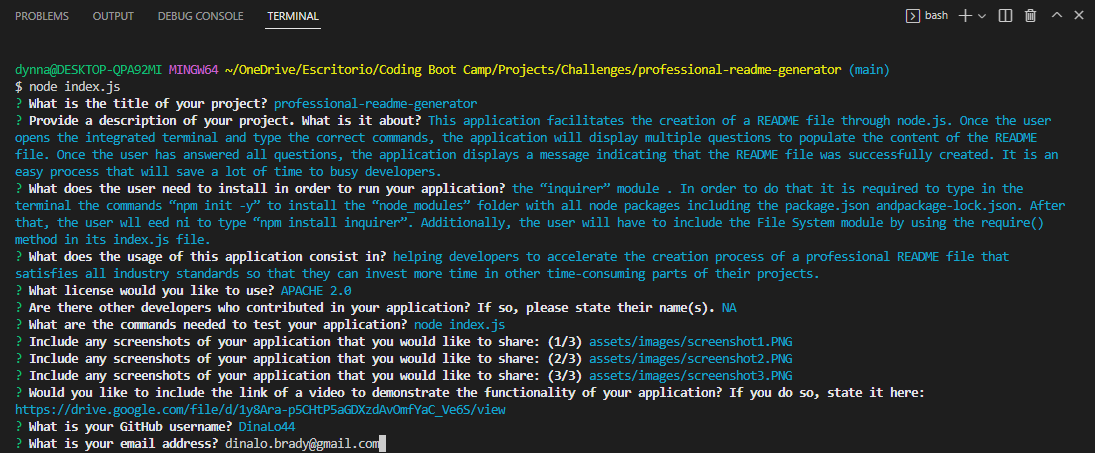
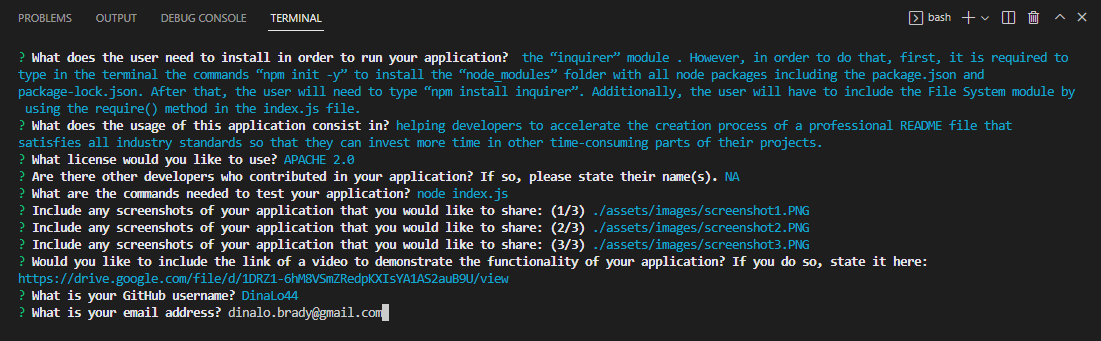
replaced screenshots, video link and edited a few answers

Changed region(s): [[0.0, 0.1466, 0.9936, 1.0], [0.0, 0.0293, 0.3105, 0.088], [0.8073, 0.0, 0.9936, 0.088]]

diff --git a/utils/generateMarkdown.js b/utils/generateMarkdown.js
@@ -41,6 +41,8 @@ function generateMarkdown(data) {
   - [License](#license)
   - [Contributing](#contributing)
   - [Tests](#tests)
+  - [Screenshots](#screenshots)
+  - [Video](#video)
   - [Questions](#questions)
   # Installation
   In order to run this application the user needs to install ${data.Installation}
@@ -54,14 +56,13 @@ function generateMarkdown(data) {
   # Tests
   The following commands are needed in order to test this application: ${data.Tests}
   # Screenshots
-  - ${data.Screenshot1}
-  - ${data.Screenshot2}
-  - ${data.Screenshot3}
+  ![screenshot1](${data.Screenshot1})
+  ![screenshot2](${data.Screenshot2})
+  ![screenshot3](${data.Screenshot3})
   # Video 
   Here is a demo video of the application: ${data.Video}
   # Questions
-  If you desire to address any inquiries, suggestions or repository related matters, feel free to contact me through my GitHub account username: ${data.Username} or at
-  ${data.Email}
+  If you desire to address any inquiries, suggestions or repository related matters, feel free to contact me through my GitHub username: ${data.Username} or through my email address: ${data.Email}
   `;
 }
 

diff --git a/README.md b/README.md
@@ -12,9 +12,11 @@
   - [License](#license)
   - [Contributing](#contributing)
   - [Tests](#tests)
+  - [Screenshots](#screenshots)
+  - [Video](#video)
   - [Questions](#questions)
   # Installation
-  In order to run this application the user needs to install the “inquirer” module . In order to do that it is required to type in the terminal the commands “npm init -y” to install the “node_modules” folder with all node packages including the package.json and package-lock.json. After that, the user will need to type “npm install inquirer”. Additionally, the user will have to include the File System module by using the require() method in its index.js file.
+  In order to run this application the user needs to install  the “inquirer” module . However, in order to do that, first, it is required to type in the terminal the commands “npm init -y” to install the “node_modules” folder with all node packages including the package.json and package-lock.json. After that, the user will need to type “npm install inquirer”. Additionally, the user will have to include the File System module by using the require() method in the index.js file.
   # Usage
   The usage of this application consists in helping developers to accelerate the creation process of a professional README file that satisfies all industry standards so that they can invest more time in other time-consuming parts of their projects. 
   # License 
@@ -25,12 +27,11 @@
   # Tests
   The following commands are needed in order to test this application: node index.js
   # Screenshots
-  - .\assets\images\screenshot1.PNG
-  - .\assets\images\screenshot2.PNG
-  - .\assets\images\screenshot3.PNG
+  ![screenshot1](./assets/images/screenshot1.PNG)
+  ![screenshot2](./assets/images/screenshot2.PNG)
+  ![screenshot3](./assets/images/screenshot3.PNG)
   # Video 
-  Here is a demo video of the application: https://drive.google.com/file/d/1y8Ara-p5CHtP5aGDXzdAvOmfYaC_Ve6S/view
+  Here is a demo video of the application: https://drive.google.com/file/d/1DRZ1-6hM8VSmZRedpKXIsYA1AS2auB9U/view
   # Questions
-  If you desire to address any inquiries, suggestions or repository related matters, feel free to contact me through my GitHub account username: DinaLo44 or at
-  dinalo.brady@gmail.com
+  If you desire to address any inquiries, suggestions or repository related matters, feel free to contact me through my GitHub username: DinaLo44 or through my email address: dinalo.brady@gmail.com
   
